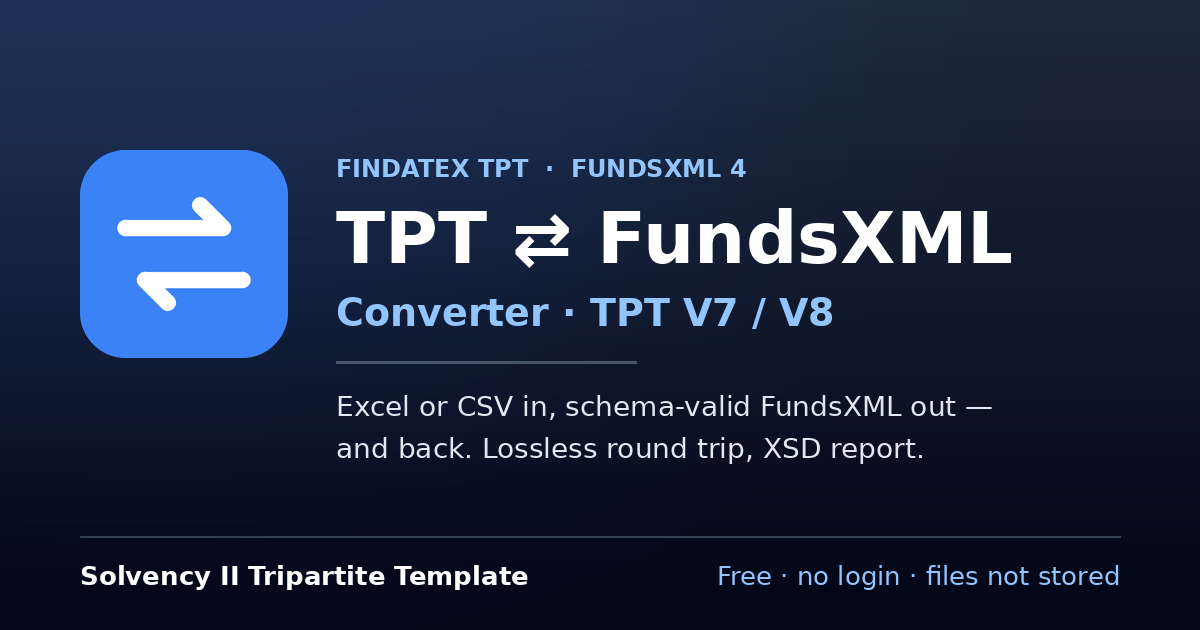
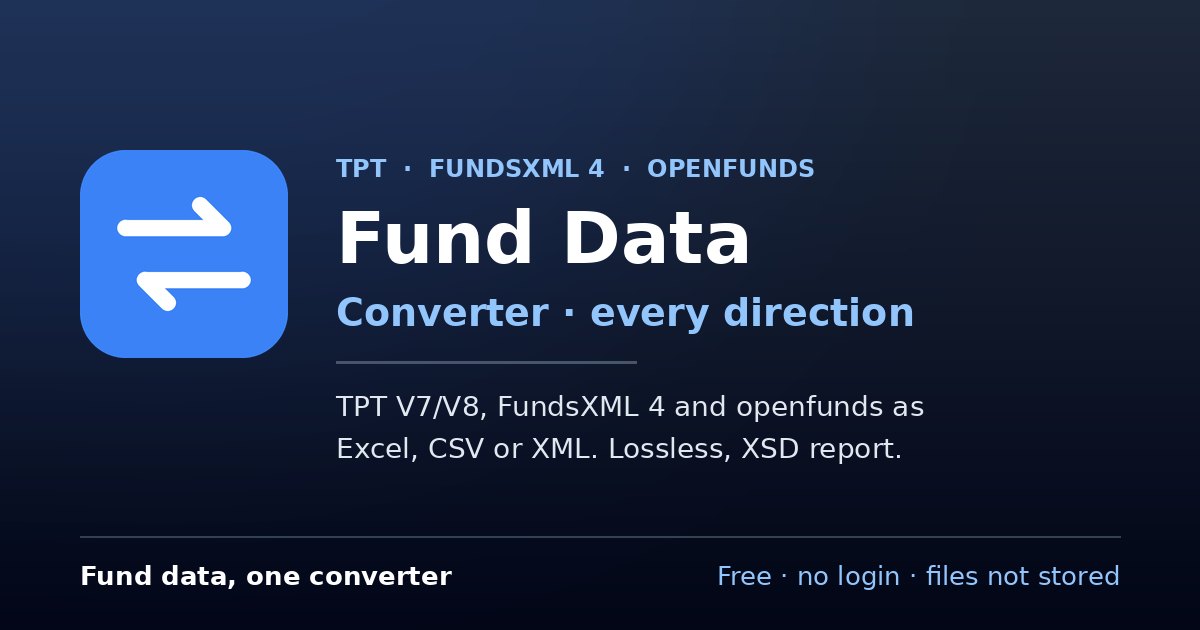
Umbenennung in Fund Data Converter, neue Adresse www.fund-data-converter.eu
- Name, Titel, og:-Tags, JSON-LD, llms.txt, FAQ, Vorschaubild und
  Metadaten der Exportdateien heißen jetzt "Fund Data Converter".
- SITE_ORIGIN-Standard ist https://www.fund-data-converter.eu; die
  Exportdateien nennen die konfigurierte Origin statt einer festen URL.
- Hand-over: alte und neue Origin gelten in der Übergangszeit.
- ControlData-Platzhalter neu benannt; Dateien mit dem alten Namen
  werden weiter als eigene erkannt.
- Die interne Kennung tpt-converter (from=, utm_source, /go/) bleibt.

diff --git a/frontend/index.html b/frontend/index.html
@@ -10,35 +10,35 @@
     <!--
       Title, description, canonical and og:* are per-route placeholders: the
       backend (backend/app/spa.py, render_shell) rewrites them for each client
-      route and replaces https://converter.status20.net with SITE_ORIGIN.
+      route and replaces https://www.fund-data-converter.eu with SITE_ORIGIN.
       Keep the attribute order as-is.
     -->
-    <title>TPT to FundsXML Converter – Solvency II Tripartite Template V7/V8 (Free)</title>
+    <title>Fund Data Converter – TPT V7/V8, FundsXML 4 and openfunds (Free)</title>
     <meta
       name="description"
-      content="Free online TPT converter: turn FinDatEx Tripartite Template (Solvency II TPT V7 and V8) Excel or CSV files into schema-valid FundsXML 4 and back. No login, nothing stored."
+      content="Free online converter for fund data: FinDatEx Tripartite Template (Solvency II TPT V7 and V8), FundsXML 4 and openfunds, as Excel, CSV or XML, in every direction. No login, nothing stored."
     />
-    <link rel="canonical" href="https://converter.status20.net/" />
+    <link rel="canonical" href="https://www.fund-data-converter.eu/" />
     <meta property="og:type" content="website" />
-    <meta property="og:site_name" content="TPT ⇄ FundsXML Converter" />
-    <meta property="og:title" content="TPT ⇄ FundsXML Converter" />
+    <meta property="og:site_name" content="Fund Data Converter" />
+    <meta property="og:title" content="Fund Data Converter – TPT, FundsXML and openfunds" />
     <meta
       property="og:description"
-      content="Free online TPT converter: turn FinDatEx Tripartite Template (Solvency II TPT V7 and V8) Excel or CSV files into schema-valid FundsXML 4 and back. No login, nothing stored."
+      content="Free online converter for fund data: FinDatEx Tripartite Template (Solvency II TPT V7 and V8), FundsXML 4 and openfunds, as Excel, CSV or XML, in every direction. No login, nothing stored."
     />
-    <meta property="og:url" content="https://converter.status20.net/" />
-    <meta property="og:image" content="https://converter.status20.net/og-image.png" />
+    <meta property="og:url" content="https://www.fund-data-converter.eu/" />
+    <meta property="og:image" content="https://www.fund-data-converter.eu/og-image.png" />
     <meta property="og:image:width" content="1200" />
     <meta property="og:image:height" content="630" />
-    <meta property="og:image:alt" content="TPT ⇄ FundsXML Converter — FinDatEx Tripartite Template to FundsXML 4 and back" />
+    <meta property="og:image:alt" content="Fund Data Converter — TPT, FundsXML 4 and openfunds in every direction" />
     <meta name="twitter:card" content="summary_large_image" />
     <!-- Not executed by the browser, so the CSP (script-src 'self') does not apply. -->
     <script type="application/ld+json">
       {
         "@context": "https://schema.org",
         "@type": "WebApplication",
-        "name": "TPT ⇄ FundsXML Converter",
-        "url": "https://converter.status20.net/",
+        "name": "Fund Data Converter",
+        "url": "https://www.fund-data-converter.eu/",
         "description": "Free online converter for FinDatEx Tripartite Template (Solvency II TPT V7 and V8) files to FundsXML 4.2.11 and back, with XSD validation and a lossless round trip.",
         "applicationCategory": "BusinessApplication",
         "operatingSystem": "Any",
@@ -54,7 +54,7 @@
           "XSD validation and a conversion report",
           "HTTP API for scripts (curl, PowerShell, Python)"
         ],
-        "screenshot": "https://converter.status20.net/og-image.png",
+        "screenshot": "https://www.fund-data-converter.eu/og-image.png",
         "author": { "@type": "Person", "name": "Karl Kauc" },
         "isRelatedTo": [
           {
@@ -82,7 +82,7 @@
     -->
     <div id="root">
       <main class="mx-auto max-w-2xl px-6 py-16 font-sans">
-        <h1 class="text-2xl font-semibold">TPT ⇄ FundsXML Converter</h1>
+        <h1 class="text-2xl font-semibold">Fund Data Converter</h1>
         <p class="mt-4">
           Free online converter for the FinDatEx <strong>Tripartite Template</strong> (Solvency II TPT V7 and V8).
           Upload a TPT file as Excel or CSV and get a schema-valid <strong>FundsXML 4.2.11</strong> document: the

diff --git a/frontend/src/lib/router.ts b/frontend/src/lib/router.ts
@@ -22,14 +22,14 @@ export const ROUTES: Route[] = [
 ];
 // The server sends the right <title> for the first page; these keep it right after in-app navigation.
 export const TITLES: Record<Route, string> = {
-  "": "TPT to FundsXML Converter – Solvency II Tripartite Template V7/V8 (Free)",
+  "": "Fund Data Converter – TPT V7/V8, FundsXML 4 and openfunds (Free)",
   "fundsxml-to-tpt": "FundsXML to TPT Converter – FundsXML 4 to Tripartite Template Excel/CSV",
   "openfunds-to-fundsxml": "openfunds to FundsXML Converter – OFST fields, holdings and EMT/EPT/EET to FundsXML 4",
   "fundsxml-to-openfunds": "FundsXML to openfunds Converter – FundsXML 4 to openfunds Excel/CSV",
   "tpt-to-openfunds": "TPT to openfunds Converter – Tripartite Template to openfunds holdings (lossless)",
   "openfunds-to-tpt": "openfunds to TPT Converter – openfunds holdings to Tripartite Template V7/V8",
   mapping: "TPT ⇄ FundsXML field mapping – every TPT V7/V8 field and its FundsXML path",
-  "api-docs": "TPT ⇄ FundsXML Converter API – convert from scripts with curl, PowerShell or Python",
+  "api-docs": "Fund Data Converter API – convert from scripts with curl, PowerShell or Python",
 };
 
 function current(): Route {

diff --git a/frontend/src/lib/i18n.tsx b/frontend/src/lib/i18n.tsx
@@ -4,7 +4,7 @@ import type { SampleName } from "./api";
 export type Lang = "de" | "en";
 
 const en = {
-  appTitle: "TPT ⇄ FundsXML Converter",
+  appTitle: "Fund Data Converter",
   tagline: "Convert between TPT (V7/V8), FundsXML 4 and openfunds – in every direction.",
   privacy: "Files are processed in memory only and never stored. No login.",
   dirToFundsxml: "TPT → FundsXML",
@@ -146,7 +146,7 @@ const en = {
 };
 
 const de: typeof en = {
-  appTitle: "TPT ⇄ FundsXML Converter",
+  appTitle: "Fund Data Converter",
   tagline: "Konvertiere zwischen TPT (V7/V8), FundsXML 4 und openfunds – in jede Richtung.",
   privacy: "Dateien werden nur im Speicher verarbeitet und nicht gespeichert. Kein Login.",
   dirToFundsxml: "TPT → FundsXML",

diff --git a/frontend/src/lib/handoff.ts b/frontend/src/lib/handoff.ts
@@ -17,7 +17,8 @@ export const HANDOFF_TIMEOUT_MS = 15_000;
 const SOURCE = "tpt-converter";
 
 /** Origins the sibling sites accept a hand-over from; keep in step with their allow-lists. */
-export const SENDER_ORIGINS = ["https://converter.status20.net"];
+// The old address stays until the sibling sites and every open tab have moved on.
+export const SENDER_ORIGINS = ["https://www.fund-data-converter.eu", "https://converter.status20.net"];
 
 const DEV_ORIGIN = /^http:\/\/(localhost|127\.0\.0\.1)(:\d+)?$/;
 

diff --git a/frontend/tests/handoff.test.tsx b/frontend/tests/handoff.test.tsx
@@ -28,6 +28,7 @@ test("the target URL names the converter as source", () => {
 });
 
 test("hand-over is offered only where the sibling sites accept it", () => {
+  expect(handoffSupported("https://www.fund-data-converter.eu")).toBe(true);
   expect(handoffSupported("https://converter.status20.net")).toBe(true);
   expect(handoffSupported("https://evil.example")).toBe(false);
   // Vitest runs in dev mode, like the Vite dev server.

diff --git a/frontend/src/components/Header.tsx b/frontend/src/components/Header.tsx
@@ -47,7 +47,7 @@ export function Header({ route }: { route: Route }) {
         >
           <img src="/favicon.svg" alt="" className="h-7 w-7" />
           <span className="hidden sm:inline">{t("appTitle")}</span>
-          <span className="sm:hidden">TPT ⇄ FundsXML</span>
+          <span className="sm:hidden">Fund Data</span>
         </a>
         <nav className="ml-auto flex items-center gap-1.5">
           <a

diff --git a/backend/app/spa.py b/backend/app/spa.py
@@ -40,13 +40,13 @@ class RouteMeta:
 
 
 _HOME = (
-    "Free online TPT converter: turn FinDatEx Tripartite Template (Solvency II TPT V7 and V8) Excel or "
-    "CSV files into schema-valid FundsXML 4 and back. No login, nothing stored."
+    "Free online converter for fund data: FinDatEx Tripartite Template (Solvency II TPT V7 and V8), "
+    "FundsXML 4 and openfunds, as Excel, CSV or XML, in every direction. No login, nothing stored."
 )
 
 # Keep in sync with ROUTES and TITLES in frontend/src/lib/router.ts.
 ROUTE_META: dict[str, RouteMeta] = {
-    "": RouteMeta("TPT to FundsXML Converter – Solvency II Tripartite Template V7/V8 (Free)", _HOME),
+    "": RouteMeta("Fund Data Converter – TPT V7/V8, FundsXML 4 and openfunds (Free)", _HOME),
     "fundsxml-to-tpt": RouteMeta(
         "FundsXML to TPT Converter – FundsXML 4 to Tripartite Template Excel/CSV",
         "Convert FundsXML 4 documents into Solvency II TPT V7 or V8 files as Excel (XLSX) or CSV, one "
@@ -78,7 +78,7 @@ ROUTE_META: dict[str, RouteMeta] = {
         "Solvency II TPT block, fund, share class, position, asset master data and EMT/EPT/EET.",
     ),
     "api-docs": RouteMeta(
-        "TPT ⇄ FundsXML Converter API – convert from scripts with curl, PowerShell or Python",
+        "Fund Data Converter API – convert from scripts with curl, PowerShell or Python",
         "One HTTP request converts a TPT file to FundsXML 4 or back and returns the file plus a "
         "report: validation, issues, data loss. No account, no API key.",
     ),
@@ -107,7 +107,7 @@ _OG_RE = {
     for key in ("title", "description", "url")
 }
 # index.html names the default origin; the deployed one comes from SITE_ORIGIN.
-_ORIGIN_PLACEHOLDER = "https://converter.status20.net"
+_ORIGIN_PLACEHOLDER = "https://www.fund-data-converter.eu"
 _FAQ_MARKER = "<!--faq-->"
 _FAQ_JSONLD_MARKER = "<!--faq-jsonld-->"
 
@@ -154,7 +154,7 @@ def llms_txt() -> str:
         if not p.noindex and not p.slug.startswith(("tpt/fields/", "openfunds/fields/"))
     ]
     lines = [
-        "# TPT ⇄ FundsXML Converter",
+        "# Fund Data Converter",
         "",
         "> Free web tool and HTTP API that converts between FinDatEx Tripartite Template (Solvency II TPT "
         "V7 and V8, XLSX/CSV), FundsXML 4.2.11 and openfunds 2.13 (XLSX/CSV), in every direction. No "

diff --git a/backend/tests/test_seo.py b/backend/tests/test_seo.py
@@ -17,11 +17,11 @@ from app.content.pages import all_pages, register_provider
 SHELL = """<!doctype html><html><head>
 <title>x</title>
 <meta name="description" content="x" />
-<link rel="canonical" href="https://converter.status20.net/" />
+<link rel="canonical" href="https://www.fund-data-converter.eu/" />
 <meta property="og:title" content="x" />
 <meta property="og:description" content="x" />
-<meta property="og:url" content="https://converter.status20.net/" />
-<meta property="og:image" content="https://converter.status20.net/og-image.png" />
+<meta property="og:url" content="https://www.fund-data-converter.eu/" />
+<meta property="og:image" content="https://www.fund-data-converter.eu/og-image.png" />
 <!--faq-jsonld-->
 </head><body><div id="root"><!--faq--></div></body></html>"""
 
@@ -52,7 +52,7 @@ def test_shell_has_canonical_og_and_home_faq(site):
     home = site.get("/").text
     assert '<link rel="canonical" href="https://tpt.example/" />' in home
     assert 'og:image" content="https://tpt.example/og-image.png"' in home
-    assert "converter.status20.net" not in home
+    assert "www.fund-data-converter.eu" not in home
     assert '"@type": "FAQPage"' in home and '<details class="faq">' in home
     mapping = site.get("/mapping").text
     assert '<link rel="canonical" href="https://tpt.example/mapping" />' in mapping
@@ -111,7 +111,7 @@ def test_robots_and_llms_name_the_configured_origin(site):
     robots = site.get("/robots.txt").text
     assert "Disallow: /api/" in robots and "Sitemap: https://tpt.example/sitemap.xml" in robots
     llms = site.get("/llms.txt").text
-    assert llms.startswith("# TPT ⇄ FundsXML Converter")
+    assert llms.startswith("# Fund Data Converter")
     assert "https://tpt.example/guides/what-is-tpt" in llms
 
 
@@ -151,5 +151,5 @@ def test_faq_api_and_gzip(client):
     r = client.get("/api/content/faq", headers={"accept-encoding": "gzip"})
     assert r.status_code == 200 and r.headers["content-encoding"] == "gzip"
     faq = r.json()
-    assert faq[0]["question"] == "What does the TPT converter do?"
+    assert faq[0]["question"] == "What does the Fund Data Converter do?"
     assert faq[0]["answer_html"].startswith("<p>")

diff --git a/tools/generate_og_image.py b/tools/generate_og_image.py
@@ -75,15 +75,15 @@ def og_image() -> Image.Image:
     img.paste(mark, (80, 150), mark)
 
     x = 336
-    draw.text((x, 154), "FINDATEX TPT  ·  FUNDSXML 4", font=font(BOLD, 24), fill=LIGHT_BLUE)
-    draw.text((x, 196), "TPT ⇄ FundsXML", font=font(BOLD, 72), fill=WHITE)
-    draw.text((x, 290), "Converter · TPT V7 / V8", font=font(BOLD, 38), fill=LIGHT_BLUE)
+    draw.text((x, 154), "TPT  ·  FUNDSXML 4  ·  OPENFUNDS", font=font(BOLD, 24), fill=LIGHT_BLUE)
+    draw.text((x, 196), "Fund Data", font=font(BOLD, 72), fill=WHITE)
+    draw.text((x, 290), "Converter · every direction", font=font(BOLD, 38), fill=LIGHT_BLUE)
     draw.line((x, 362, x + 300, 362), fill=(71, 85, 105), width=3)
-    draw.text((x, 390), "Excel or CSV in, schema-valid FundsXML out —", font=font(REGULAR, 28), fill=SLATE_200)
-    draw.text((x, 432), "and back. Lossless round trip, XSD report.", font=font(REGULAR, 28), fill=SLATE_200)
+    draw.text((x, 390), "TPT V7/V8, FundsXML 4 and openfunds as", font=font(REGULAR, 28), fill=SLATE_200)
+    draw.text((x, 432), "Excel, CSV or XML. Lossless, XSD report.", font=font(REGULAR, 28), fill=SLATE_200)
 
     draw.line((80, 536, WIDTH - 80, 536), fill=(51, 65, 85), width=2)
-    draw.text((80, 560), "Solvency II Tripartite Template", font=font(BOLD, 26), fill=WHITE)
+    draw.text((80, 560), "Fund data, one converter", font=font(BOLD, 26), fill=WHITE)
     free = "Free · no login · files not stored"
     f = font(REGULAR, 26)
     draw.text((WIDTH - 80 - draw.textlength(free, font=f), 560), free, font=f, fill=LIGHT_BLUE)

diff --git a/backend/app/content/site.py b/backend/app/content/site.py
@@ -2,14 +2,14 @@
 
 from __future__ import annotations
 
-SITE_NAME = "TPT ⇄ FundsXML Converter"
+SITE_NAME = "Fund Data Converter"
 # Where the "Open the converter" button in the page header points.
 VIEWER_PATH = "/"
 OPEN_LABEL = "Open the converter"
 LOGO_PATH = "/favicon.svg"
 # Preview image for shared links, 1200×630 (frontend/public); index.html names the same.
 OG_IMAGE_PATH = "/og-image.png"
-OG_IMAGE_ALT = "TPT ⇄ FundsXML Converter — FinDatEx Tripartite Template to FundsXML 4 and back"
+OG_IMAGE_ALT = "Fund Data Converter — TPT, FundsXML 4 and openfunds in every direction"
 # This site's key in FAMILY; its own entry is shown without a link.
 SELF = "tpt"
 
@@ -19,7 +19,7 @@ FAMILY: tuple[tuple[str, str, str], ...] = (
     ("xsd", "XSD Viewer", "/go/xsd-viewer"),
     ("xml", "XML Viewer", "/go/xml-viewer"),
     ("odata", "OData Viewer", "/go/odata-viewer"),
-    ("tpt", "TPT Converter", "/go/tpt-converter"),
+    ("tpt", "Fund Data Converter", "/go/tpt-converter"),
     ("desktop", "Desktop app", "/go/freexmltoolkit"),
 )
 

diff --git a/backend/tests/test_fundsxml_shareclass.py b/backend/tests/test_fundsxml_shareclass.py
@@ -2,6 +2,8 @@
 
 from __future__ import annotations
 
+import pytest
+
 from app.convert.to_tpt import extract_tpt
 from app.ingest.fundsxml_reader import parse_fundsxml
 
@@ -235,8 +237,10 @@ def test_fund_issuer_from_the_data_supplier():
     assert {(r["117"], r["122"]) for r in rows} == {("KAG GmbH", "AT")}
 
 
-def test_converter_placeholder_is_no_fund_issuer():
+@pytest.mark.parametrize("supplier", ["Fund Data Converter", "TPT to FundsXML Converter"])
+def test_converter_placeholder_is_no_fund_issuer(supplier):
+    """Our own placeholder, also the one of files written before the rename, is no fund issuer."""
     sc = [_share_class("AT0000000AA1", "EUR", "10", {"EUR": "1000"})]
-    xml = _doc(sc, FUND_PF, control=_supplier("TPT to FundsXML Converter", "XX"))
+    xml = _doc(sc, FUND_PF, control=_supplier(supplier, "XX"))
     rows = extract_tpt(parse_fundsxml(xml), "V7").rows
     assert not any(r.get("117") or r.get("122") for r in rows)

diff --git a/backend/app/convert/to_tpt.py b/backend/app/convert/to_tpt.py
@@ -25,7 +25,7 @@ from functools import lru_cache
 from lxml import etree
 
 from app.convert.derive import amount, complete_portfolio, complete_position, dec
-from app.mapping.rules import PLACEHOLDER_COUNTRY, PLACEHOLDER_SUPPLIER, Rule, rules_for
+from app.mapping.rules import PLACEHOLDER_COUNTRY, PLACEHOLDER_SUPPLIERS, Rule, rules_for
 from app.model.issues import Issue
 from app.spec.catalog import VERSIONS, load_catalog
 
@@ -287,7 +287,7 @@ def _read_portfolio(core: CorePortfolio, values: dict[str, str]) -> None:
         if reported.get("7") and values.get("6", "") > reported["7"]:
             reported["7"] = values["6"]
         # Our own TPT → FundsXML output names no real fund issuer.
-        if reported.get("117") == PLACEHOLDER_SUPPLIER:
+        if reported.get("117") in PLACEHOLDER_SUPPLIERS:
             del reported["117"]
         if reported.get("122", "").upper() == PLACEHOLDER_COUNTRY:
             del reported["122"]
